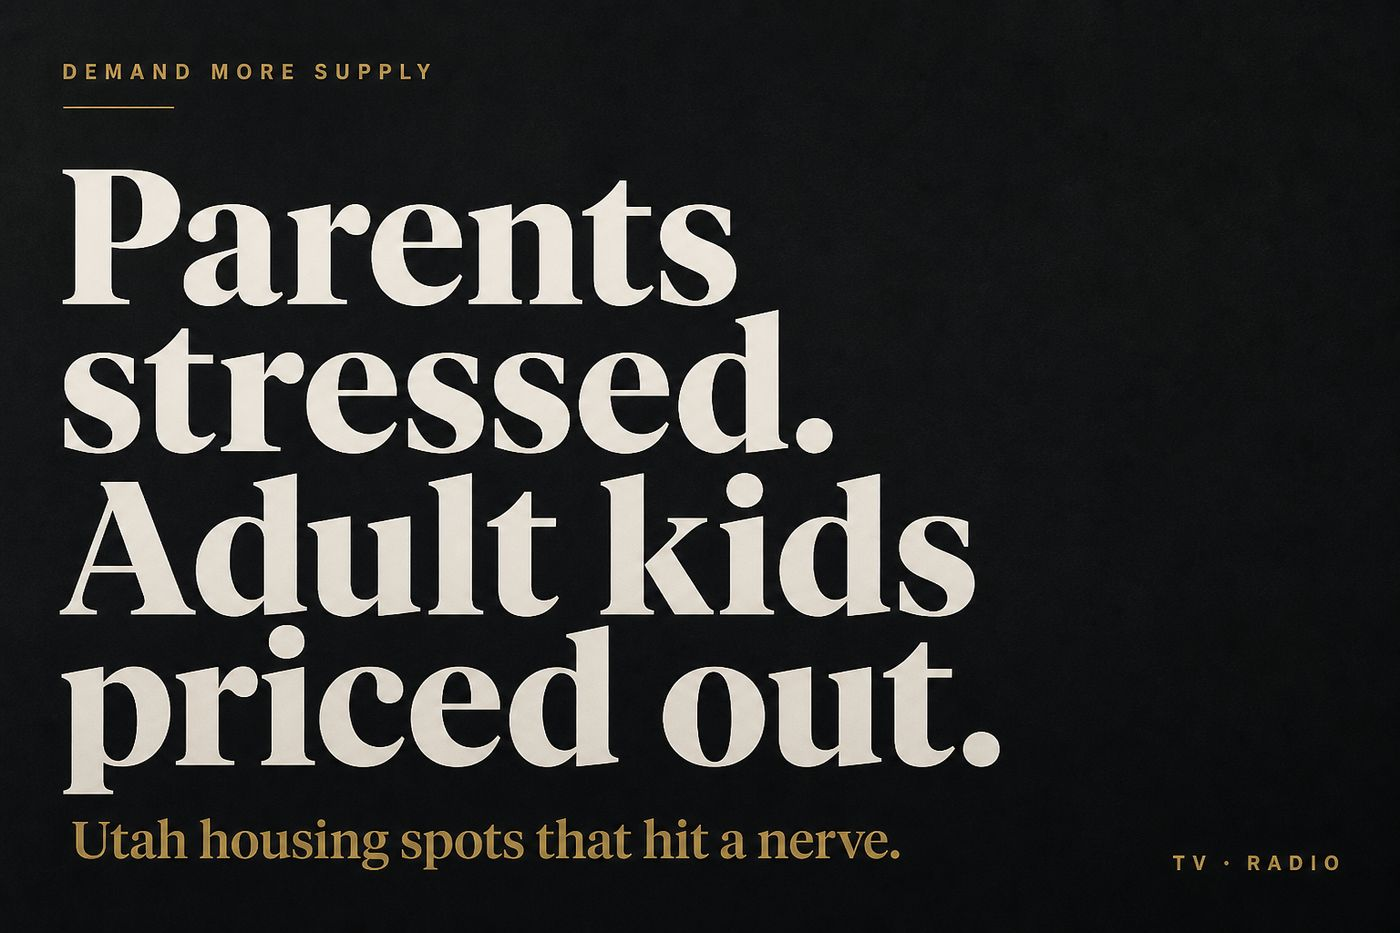
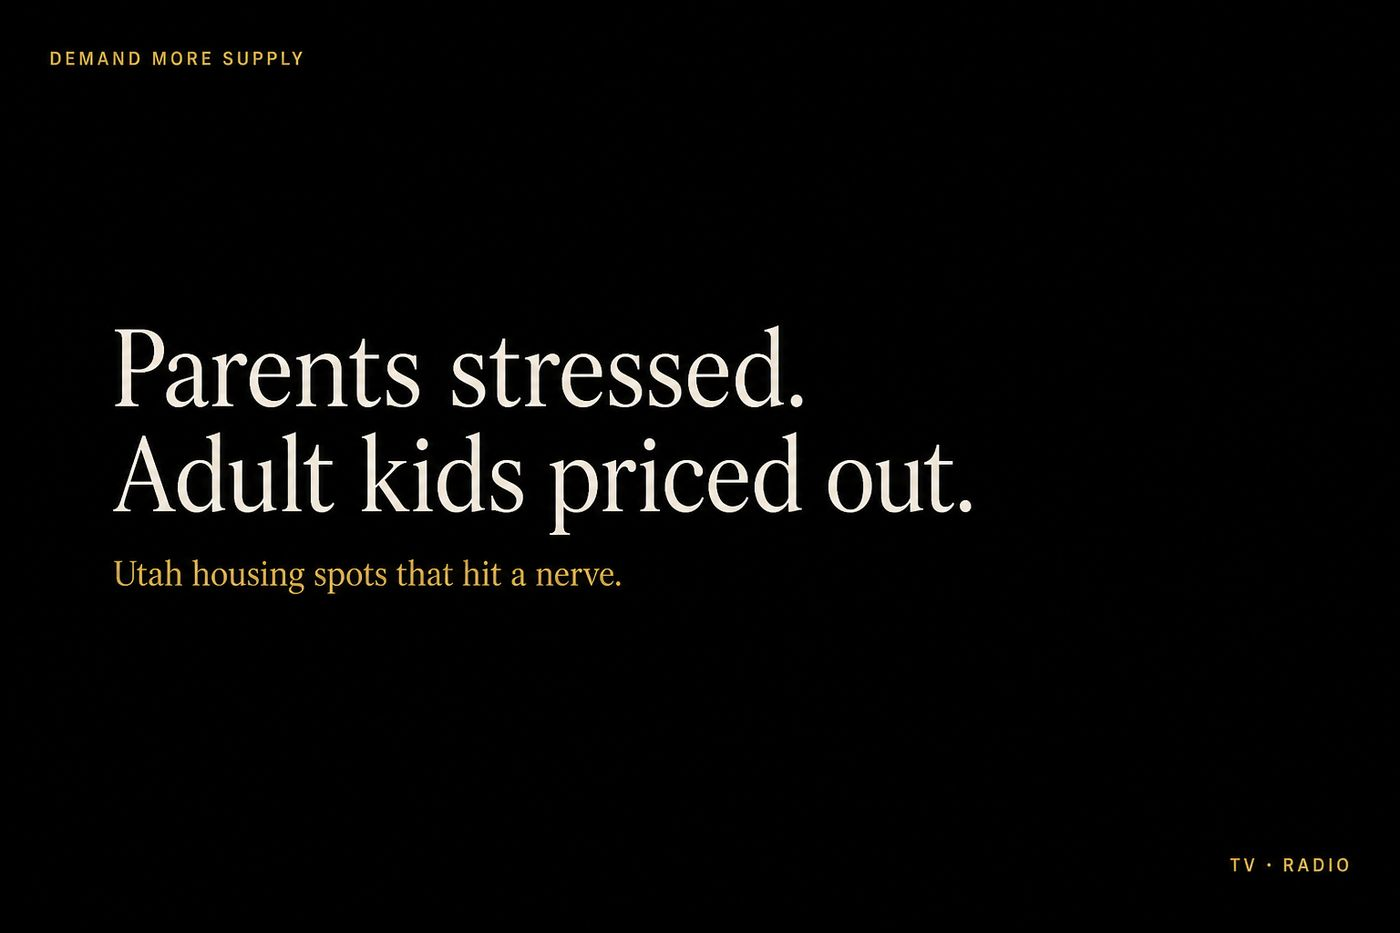
Four thumbs: Hedberg ad book + Also (#3)
* Smaller-type Revenue Bloom concept cover

* Smaller-type Demand More Supply concept cover

* Add The ads Hedberg concept cover

* Add Also misc concept cover

* Homepage: four thumbs — AI, recent, the ads, also

* CSS for feature stack and book grid

* The ads book page: Morgan, Zions, VSP

* Also page: radio, Canyons, more links

Changed region(s): [[0.0, 0.0, 0.7371, 0.9325], [0.8907, 0.9014, 0.9829, 0.9325], [0.8293, 0.9014, 0.86, 0.9325]]

diff --git a/index.html b/index.html
@@ -29,8 +29,9 @@
   <p class="role-sub">I write ads people remember — and build AI systems that actually ship work. Utah-based. Open to AI roles that want a creative director / copywriter brain.</p>
 </section>
 
-<section id="work" class="lane">
+<section id="work" class="lane feature-stack">
   <p class="thingys">Maker of Awesome Thingys®.</p>
+
   <p class="section-label">AI product</p>
   <a class="feature compact" href="work/found-money-friend.html">
     <div class="thumb"><img src="img/found-money-friend/cover.jpg" alt="Revenue Bloom"></div>
@@ -54,70 +55,30 @@
       <span class="go">See</span>
     </div>
   </a>
-</section>
 
-<p class="section-label">Selected work</p>
-<section class="grid">
-  <a class="card" href="work/morgan-jewelers.html">
-    <div class="thumb"><img src="img/morgan-jewelers/thumb-wise-men.png" alt="Morgan Jewelers"></div>
+  <p class="section-label">The ads</p>
+  <a class="feature compact" href="work/the-ads.html">
+    <div class="thumb"><img src="img/the-ads/cover.jpg" alt="The ads"></div>
     <div class="meta">
       <div>
-        <strong>Morgan Jewelers</strong>
-        <p class="blurb">A lot of “engaging” content. Little reason to not like it.</p>
+        <strong>The ads</strong>
+        <p class="blurb">An ad is a joke that wants your money. These try to earn it.</p>
       </div>
       <span class="go">See</span>
     </div>
   </a>
-  <a class="card" href="work/zions-bank.html">
-    <div class="thumb"><img src="img/zions-bank/cover.png" alt="Zions Bank"></div>
-    <div class="meta">
-      <div>
-        <strong>Zions Bank</strong>
-        <p class="blurb">Behind every number is a story. Including Donovan Mitchell.</p>
-      </div>
-      <span class="go">See</span>
-    </div>
-  </a>
-  <a class="card" href="work/vsp-individual-vision-plans.html">
-    <div class="thumb"><img src="img/vsp-individual-vision-plans/cover.png" alt="VSP Individual Vision Plans"></div>
-    <div class="meta">
-      <div>
-        <strong>VSP Individual Vision Plans</strong>
-        <p class="blurb">Eyeglasses are simple. These ads are easy to like.</p>
-      </div>
-      <span class="go">See</span>
-    </div>
-  </a>
-  <a class="card" href="work/radio-spots.html">
-    <div class="thumb"><img src="img/radio-spots/cover.jpg" alt="Radio Spots"></div>
-    <div class="meta">
-      <div>
-        <strong>Radio Spots</strong>
-        <p class="blurb">I love the challenge of radio. Hopefully you’ll love these.</p>
-      </div>
-      <span class="go">See</span>
-    </div>
-  </a>
-  <a class="card" href="work/canyons.html">
-    <div class="thumb"><img src="img/canyons/cover.jpg" alt="Canyons"></div>
-    <div class="meta">
-      <div>
-        <strong>Canyons</strong>
-        <p class="blurb">Before it was Park City Mountain.</p>
-      </div>
-      <span class="go">See</span>
-    </div>
-  </a>
-</section>
 
-<section class="also-block">
   <p class="section-label">Also</p>
-  <div class="also">
-    <a href="work/our-kids-now.html">Our Schools Now</a>
-    <a href="work/arches-health-plan.html">Arches Health Plan</a>
-    <a href="work/csu-global.html">CSU-Global</a>
-    <a href="work/miscellaneous-stuff.html">Miscellaneous Stuff</a>
-  </div>
+  <a class="feature compact" href="work/also.html">
+    <div class="thumb"><img src="img/also/cover.jpg" alt="Also"></div>
+    <div class="meta">
+      <div>
+        <strong>Also</strong>
+        <p class="blurb">Not every ad needs a parade. Some just need a link.</p>
+      </div>
+      <span class="go">See</span>
+    </div>
+  </a>
 </section>
 
 <footer class="foot">

diff --git a/work/the-ads.html b/work/the-ads.html
@@ -1,0 +1,65 @@
+<!DOCTYPE html>
+<html lang="en">
+<head>
+<meta charset="utf-8">
+<meta name="viewport" content="width=device-width, initial-scale=1">
+<title>The ads — Rhett Boyakin</title>
+<meta name="description" content="Selected advertising by Creative Director and copywriter Rhett Boyakin — Morgan Jewelers, Zions Bank, VSP.">
+<link rel="preconnect" href="https://fonts.googleapis.com">
+<link href="https://fonts.googleapis.com/css2?family=Figtree:wght@400;600&family=Newsreader:opsz,wght@6..72,500&display=swap" rel="stylesheet">
+<link rel="stylesheet" href="../css/site.css">
+</head>
+<body>
+<header class="nav">
+  <a class="wordmark" href="../index.html">Rhett Boyakin</a>
+  <nav>
+    <a href="../index.html#work">Work</a>
+    <a href="../contact.html">Contact</a>
+  </nav>
+</header>
+<article class="page">
+  <p class="kicker">Selected advertising</p>
+  <p class="pull">An ad is a joke that wants your money.</p>
+  <p class="lede">These try to earn it.</p>
+  <p class="body">Morgan Jewelers, Zions Bank (including Donovan Mitchell), and VSP — the work with the most range, the biggest Utah names, and the craft I’m happiest putting first.</p>
+
+  <div class="book-grid">
+    <a class="card" href="morgan-jewelers.html">
+      <div class="thumb"><img src="../img/morgan-jewelers/thumb-wise-men.png" alt="Morgan Jewelers"></div>
+      <div class="meta">
+        <div>
+          <strong>Morgan Jewelers</strong>
+          <p class="blurb">A lot of “engaging” content. Little reason to not like it.</p>
+        </div>
+        <span class="go">See</span>
+      </div>
+    </a>
+    <a class="card" href="zions-bank.html">
+      <div class="thumb"><img src="../img/zions-bank/cover.png" alt="Zions Bank"></div>
+      <div class="meta">
+        <div>
+          <strong>Zions Bank</strong>
+          <p class="blurb">Behind every number is a story. Including Donovan Mitchell.</p>
+        </div>
+        <span class="go">See</span>
+      </div>
+    </a>
+    <a class="card" href="vsp-individual-vision-plans.html">
+      <div class="thumb"><img src="../img/vsp-individual-vision-plans/cover.png" alt="VSP"></div>
+      <div class="meta">
+        <div>
+          <strong>VSP Individual Vision Plans</strong>
+          <p class="blurb">Eyeglasses are simple. These ads are easy to like.</p>
+        </div>
+        <span class="go">See</span>
+      </div>
+    </a>
+  </div>
+</article>
+<footer class="foot">
+  <p>AI can make anything. That’s the problem. · Maker of Awesome Thingys®.</p>
+  <p><a href="mailto:rhettboyakin@gmail.com">rhettboyakin@gmail.com</a></p>
+</footer>
+<script src="../js/lightbox.js"></script>
+</body>
+</html>

diff --git a/work/also.html b/work/also.html
@@ -1,0 +1,62 @@
+<!DOCTYPE html>
+<html lang="en">
+<head>
+<meta charset="utf-8">
+<meta name="viewport" content="width=device-width, initial-scale=1">
+<title>Also — Rhett Boyakin</title>
+<meta name="description" content="More advertising and campaign work by Rhett Boyakin — radio, Canyons, Our Schools Now, Arches, CSU-Global, miscellaneous.">
+<link rel="preconnect" href="https://fonts.googleapis.com">
+<link href="https://fonts.googleapis.com/css2?family=Figtree:wght@400;600&family=Newsreader:opsz,wght@6..72,500&display=swap" rel="stylesheet">
+<link rel="stylesheet" href="../css/site.css">
+</head>
+<body>
+<header class="nav">
+  <a class="wordmark" href="../index.html">Rhett Boyakin</a>
+  <nav>
+    <a href="../index.html#work">Work</a>
+    <a href="../contact.html">Contact</a>
+  </nav>
+</header>
+<article class="page">
+  <p class="kicker">Also</p>
+  <p class="pull">Not every ad needs a parade.</p>
+  <p class="lede">Some just need a link.</p>
+
+  <div class="book-grid">
+    <a class="card" href="radio-spots.html">
+      <div class="thumb"><img src="../img/radio-spots/cover.jpg" alt="Radio Spots"></div>
+      <div class="meta">
+        <div>
+          <strong>Radio Spots</strong>
+          <p class="blurb">I love the challenge of radio. Hopefully you’ll love these.</p>
+        </div>
+        <span class="go">See</span>
+      </div>
+    </a>
+    <a class="card" href="canyons.html">
+      <div class="thumb"><img src="../img/canyons/cover.jpg" alt="Canyons"></div>
+      <div class="meta">
+        <div>
+          <strong>Canyons</strong>
+          <p class="blurb">Before it was Park City Mountain.</p>
+        </div>
+        <span class="go">See</span>
+      </div>
+    </a>
+  </div>
+
+  <p class="section-label" style="padding-left:0">More</p>
+  <div class="also" style="padding-left:0;padding-bottom:2rem">
+    <a href="our-kids-now.html">Our Schools Now</a>
+    <a href="arches-health-plan.html">Arches Health Plan</a>
+    <a href="csu-global.html">CSU-Global</a>
+    <a href="miscellaneous-stuff.html">Miscellaneous Stuff</a>
+  </div>
+</article>
+<footer class="foot">
+  <p>AI can make anything. That’s the problem. · Maker of Awesome Thingys®.</p>
+  <p><a href="mailto:rhettboyakin@gmail.com">rhettboyakin@gmail.com</a></p>
+</footer>
+<script src="../js/lightbox.js"></script>
+</body>
+</html>

diff --git a/css/site.css b/css/site.css
@@ -323,3 +323,23 @@ img { max-width: 100%; display: block; height: auto; }
 .feature.compact {
   padding-bottom: 4vh;
 }
+
+.role-sub {
+  max-width: 36rem;
+  margin-top: 0.75rem;
+  color: var(--mute);
+  font-size: 0.95rem;
+  line-height: 1.45;
+  font-weight: 400;
+}
+.lane { padding-top: 0.5rem; }
+.feature.compact { padding-bottom: 3.5vh; }
+.feature-stack .section-label { margin-top: 1.2rem; }
+.book-grid {
+  display: grid;
+  grid-template-columns: 1fr 1fr;
+  gap: 1.4rem 1.4rem;
+  padding: 1rem 0 2rem;
+}
+@media (max-width: 760px) { .book-grid { grid-template-columns: 1fr; } }
+.book-grid .card .thumb { aspect-ratio: 4/3; }
